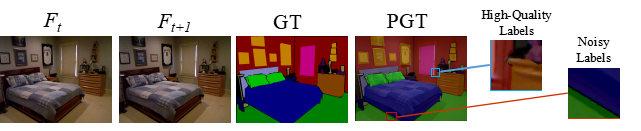
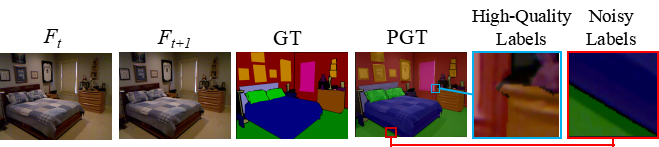
modified

diff --git a/Experiments.tex b/Experiments.tex
@@ -3,19 +3,19 @@
 
 \begin{figure}[t]
 	\centering
-	\includegraphics[scale=0.61]{figure/PGT.png}
+	\includegraphics[scale=0.48]{figure/PGT.png}
 	%	\vspace*{-0.6cm} 
 	\caption{Propagated pseudo ground truth from a reference frame $F_t$ to $F_{t+1}$.\comments{The GT of $F_t$ is provided by NYU-v2 dataset. We propogate the annotated label of $F_{t}$ to $F_{t+1}$ and generate the corresponding PGT.} Most of the pseudo labels are reliable, while there are some noisy around object boundaries.}
 	\label{fig:PGT}
 	%	\vspace*{-0.35cm} 
 \end{figure}
 
-\begin{figure*}[!th]
+\begin{figure}[!th]
 	\centering
-	\includegraphics[scale=0.65]{figure/Result.png}
-	\caption{Qualitative results on the NYUD—v2 dataset. For the secne image in each row, we show: the RGB image; the ground truth of semantic segmentation; the result of RDFNet; the result of trained by $L_{Consistency}$; the result of trained by $L_{PGT}$ and the result of trained by two losses. Our method predicts more accurate segmentation results.}
+	\includegraphics[scale=0.42]{figure/Result.png}
+	\caption{Qualitative results on the NYUD—v2 dataset. For the secne image in each row, we show: the RGB image; the ground truth of semantic segmentation; the results of RDFNet; The results of our method. Our method predicts more accurate segmentation results.}
 	\label{fig:VisResult}
-\end{figure*}
+\end{figure}
 
 In order to evaluate the proposed method for indoor scene segmentation, we conduct experiments on a publicly available benchmark dataset (NYUD-v2) and show the superiority of our method.
 %, which contains 273 video sequences of RGBD data.  

diff --git a/Introduction.tex b/Introduction.tex
@@ -46,7 +46,7 @@ As the predictions from RefineNet \cite{Lin2017} shown in Fig.~\ref{fig:Consist}
 	\setlength{\belowcaptionskip}{10pt}
 	\centering
 	\centering
-	\includegraphics[scale=0.57]{figure/Pipeline.png}
+	\includegraphics[scale=0.56]{figure/Pipeline.png}
 %	\vspace*{-0.8cm} 
 	\caption{The diagram of our proposed method. Left: we propagate the ground truth from a labeled frame to its adjacent frames by image warping. Right: the flowchart of our training strategy using temporal consistency. 
 		%It mainly consists of three steps: 1) The current frame $F_t$ passes through a basic semantic segmentation network to generate the prediction  2) Warpping the prediction of previous frame $F_{t-1}$ depends on optical flow generated from PWC-Net \cite{Sun2018} 3) Warpped prediction of $F_{t-1}$ and generated PGT joint action on the network by $L_{consistency}$ and $L_{PGT}$ respectively.
